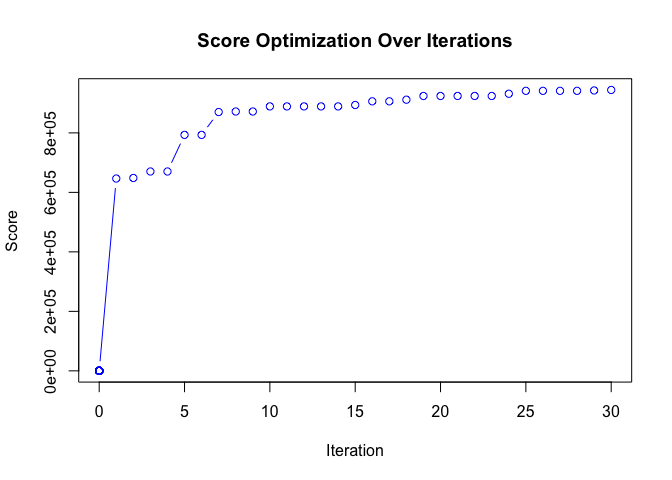
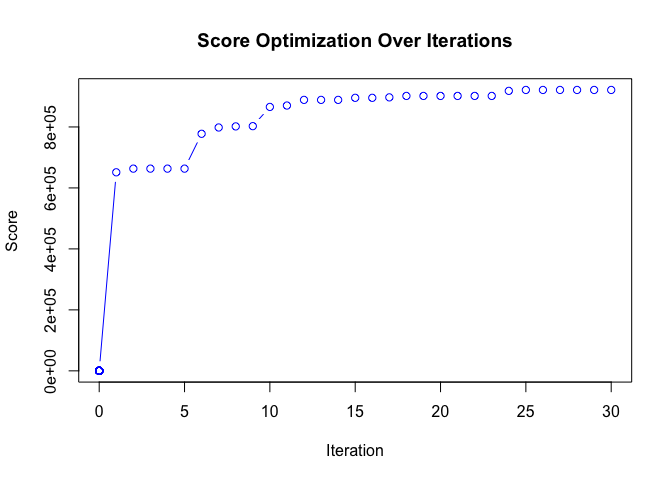
fix: README (typos, formats, citations)

diff --git a/README.md b/README.md
@@ -10,7 +10,6 @@ design (DAD).
 
 <!-- badges: start -->
 
-![GitHub](https://img.shields.io/github/license/yunyicheng/TRexDAD)
 ![GitHub language
 count](https://img.shields.io/github/languages/count/yunyicheng/TRexDAD)
 ![GitHub last commit
@@ -25,30 +24,35 @@ issues](https://img.shields.io/github/issues/yunyicheng/TRexDAD)
 
 ## Description
 
-Designing oligonucleotides is a significant part of Tile Region Exchange
-mutagenesis (T-Rex). It is a DNA assembly technique based on cassette
-mutagenesis, which utilizes a short, double-stranded oligonucleotide
-sequence (gene cassette) to replace a fragment of target DNA. It uses
-complementary restriction enzyme digest ends on the target DNA and gene
-cassette to achieve specificity. Here is a general overview of Tile
-Region Exchange and cassette mutagenesis. ![TRex Process
-Overview](inst/extdata/TRex_overview.png) However, derive the assembly
+Deep Mutational Scanning (DMS) is a technique that combines mutagenesis,
+high-throughput sequencing, and functional assays to measure the effects
+of a large number of genetic variants on a protein’s function or
+phenotype. In order to assess variants, generating a library of mutants
+is necessary. Tile Region Exchange (T-Rex) Mutagenesis is a
+high-throughput method to generate all possible single nucleotide
+variants (SNVs) or missense mutations in a gene. Here is an overview of
+T-Rex Mutagenesis. ![TRex Process
+Overview](inst/extdata/TRex_overview.png) However, deriving the assembly
 design by hand is often error-prone and time-consuming since the
 fidelity of resulting oligonucleotides does not merely depend on mere
 rules. Therefore, a data-driven solution is required for designing
-oligonucleotides with high correct assembly rate \[\]. Although there
-are web tools currently available for this procedure, few of them
-utilized Data-optimized Assembly Design.`TRexDAD` is a streamline tool
-that facilitates oligonucleotide design for Tile Region Exchange
-Mutagenesis by harnessing Data-optimized Assembly Design (DAD)
-techniques, along with visualization of optimization process. The
-package is targeted for researchers who perform Tile Region Exchange
-Mutagenesis for some genes of interest and need an efficient and
-reliable streamline to produce mutagenizing oligonucleotides. The scope
-of the R package is to improve the work flow in Tile Region Exchange
-Mutagenesis, facilitating open-source researches for interested
-bioinformatitians and computational biologists. The `TRexDAD` package
-was developed using `R version 4.3.1 (2023-06-16)`,
+oligonucleotides with high correct assembly rate [Pryor et
+al. (2020)](https://doi.org/10.1371/journal.pone.0238592). Although
+there are web tools currently available for similar mutagenesis
+procedures, few of them utilize Data-optimized Assembly Design.`TRexDAD`
+is a streamlined tool that facilitates oligonucleotide design for T-Rex
+by harnessing DAD techniques, along with visualization of the
+optimization process. The package is for researchers who perform Tile
+Region Exchange Mutagenesis for some genes of interest and need an
+efficient and reliable streamline to produce mutagenizing
+oligonucleotides. The tool includes functions performing data
+processing, overhang fidelity score calculations, and optimization of
+gene tile locations, along with a visualization of the change in
+fidelity score of resulting overhangs from oligonucleotide designs. The
+scope of the R package is to improve the work flow in T-Rex Mutagenesis
+regarding efficiency and accuracy, facilitating open-source researches
+for interested bioinformatitians and computational biologists. The
+`TRexDAD` package was developed using `R version 4.3.1 (2023-06-16)`,
 `Platform: aarch64-apple-darwin20 (64-bit)` and
 `Running under: macOS Sonoma 14.1.1`.
 
@@ -59,14 +63,8 @@ To install the latest version of the package:
 ``` r
 options(repos = c(CRAN = "https://cloud.r-project.org"))
 install.packages("devtools")
-#> 
-#> The downloaded binary packages are in
-#>  /var/folders/j2/0nyw78hx65ld4h4zpmyv3r_40000gn/T//RtmpeJRugb/downloaded_packages
 library("devtools")
-#> Loading required package: usethis
 devtools::install_github("yunyicheng/TRexDAD", build_vignettes = TRUE)
-#> Skipping install of 'TRexDAD' from a github remote, the SHA1 (cd1f89f1) has not changed since last install.
-#>   Use `force = TRUE` to force installation
 library("TRexDAD")
 ```
 
@@ -79,15 +77,7 @@ library("TRexDAD")
 
 ``` r
 ls("package:TRexDAD")
-#>  [1] "calculate_global_score"  "calculate_local_score"  
-#>  [3] "calculate_optimal_tiles" "execute_and_plot"       
-#>  [5] "get_all_overhangs"       "get_overhangs"          
-#>  [7] "oligo_cost"              "optimize_position"      
-#>  [9] "pick_position"           "split_into_codons"
-data(package = "TRexDAD") 
-#> no data sets found
 browseVignettes("TRexDAD")
-#> No vignettes found by browseVignettes("TRexDAD")
 ```
 
 `TRexDAD` contains 10 functions. Since they are all parts of an
@@ -154,10 +144,11 @@ The author of the package is Yunyi Cheng.
 
 The author wrote the *execute_and_plot* function, which performs an
 optimization process to determine the optimal tile positions in a gene
-sequence and plots the progression of the score over iterations.
+sequence and plots the change in the score over iterations.
 
 Other user-accessible functions are also developed by the author. Most
-of them serve as helper functions for the *execute_and_plot* function.
+of them serve as helper functions for the *execute_and_plot* function,
+but they can also be used indepently for specific tasks.
 
 `Biostrings` R package is used for calculating reverse complement of
 overhangs in the *get_overhangs* function.
@@ -165,7 +156,8 @@ overhangs in the *get_overhangs* function.
 `readxl` R package is used for reading excel file
 `overhang_fidelity.xlsx` containing tested overhangs’s reactivity
 against each other. `overhang_fidelity.xlsx` is from the study by New
-England Biolabs.
+England Biolabs [Pryor et
+al. (2020)](https://doi.org/10.1371/journal.pone.0238592).
 
 `forstringr` R package is used for manipulating splitted target gene (a
 list of codons) in the *get_overhangs* function.
@@ -217,109 +209,15 @@ those who provided feedback to improve this package.
 
 ## Workflow Usage
 
-The main objective of the package is to find optimal assembly design in
-mutagenizing Rad27. The RAD27 gene of Saccharomyces cerevisiae encodes a
-5′-3′ flap exo/endonuclease, which is significant for DNA replication.
+The main objective of the package is to find the optimal assembly design
+for mutagenizing a gene of interest. For illustration purposes, it is
+set to Rad27 by default; but users are encouraged to use this tool for
+any genes of interest.
 
-To initiate workflow (with visualization of scores), run:
+To initiate workflow with the default gene of interest, run:
 
 ``` r
 execute_and_plot()
-#> For 385 codons, the optimal number of tiles is 17 with an average length of 23 nucleotides per tile and an optimal cost of 1.685905 per codon.
-#>  [1]   3  26  49  72  95 118 141 164 187 210 233 256 279 302 325 348 371
-#>  [1]   3  26  49  72  95 118 141 164 187 210 233 256 279 302 325 348 371 383
-#> [1] "Initial positions = 3, 26, 49, 72, 95, 118, 141, 164, 187, 210, 233, 256, 279, 302, 325, 348, 371, 383"
-#> [1] "Initial score = 635750"
-#> [1] "Optimized target = 278"
-#> [1] "Modified pos = 3, 26, 49, 72, 95, 118, 141, 164, 187, 210, 233, 256, 278, 302, 325, 348, 371, 383"
-#> [1] "#iteration = 1 , current score = 646550"
-#> [1] "Optimized target = 324"
-#> [1] "Modified pos = 3, 26, 49, 72, 95, 118, 141, 164, 187, 210, 233, 256, 278, 302, 324, 348, 371, 383"
-#> [1] "#iteration = 2 , current score = 648350"
-#> [1] "Optimized target = 168"
-#> [1] "Modified pos = 3, 26, 49, 72, 95, 118, 141, 168, 187, 210, 233, 256, 278, 302, 324, 348, 371, 383"
-#> [1] "#iteration = 3 , current score = 670200"
-#> [1] "Optimized target = 49"
-#> [1] "Modified pos = 3, 26, 49, 72, 95, 118, 141, 168, 187, 210, 233, 256, 278, 302, 324, 348, 371, 383"
-#> [1] "#iteration = 4 , current score = 670200"
-#> [1] "Optimized target = 143"
-#> [1] "Modified pos = 3, 26, 49, 72, 95, 118, 143, 168, 187, 210, 233, 256, 278, 302, 324, 348, 371, 383"
-#> [1] "#iteration = 5 , current score = 793300"
-#> [1] "Optimized target = 49"
-#> [1] "Modified pos = 3, 26, 49, 72, 95, 118, 143, 168, 187, 210, 233, 256, 278, 302, 324, 348, 371, 383"
-#> [1] "#iteration = 6 , current score = 793300"
-#> [1] "Optimized target = 25"
-#> [1] "Modified pos = 3, 25, 49, 72, 95, 118, 143, 168, 187, 210, 233, 256, 278, 302, 324, 348, 371, 383"
-#> [1] "#iteration = 7 , current score = 870100"
-#> [1] "Optimized target = 123"
-#> [1] "Modified pos = 3, 25, 49, 72, 95, 123, 143, 168, 187, 210, 233, 256, 278, 302, 324, 348, 371, 383"
-#> [1] "#iteration = 8 , current score = 871850"
-#> [1] "Optimized target = 348"
-#> [1] "Modified pos = 3, 25, 49, 72, 95, 123, 143, 168, 187, 210, 233, 256, 278, 302, 324, 348, 371, 383"
-#> [1] "#iteration = 9 , current score = 871850"
-#> [1] "Optimized target = 368"
-#> [1] "Modified pos = 3, 25, 49, 72, 95, 123, 143, 168, 187, 210, 233, 256, 278, 302, 324, 348, 368, 383"
-#> [1] "#iteration = 10 , current score = 889000"
-#> [1] "Optimized target = 368"
-#> [1] "Modified pos = 3, 25, 49, 72, 95, 123, 143, 168, 187, 210, 233, 256, 278, 302, 324, 348, 368, 383"
-#> [1] "#iteration = 11 , current score = 889000"
-#> [1] "Optimized target = 25"
-#> [1] "Modified pos = 3, 25, 49, 72, 95, 123, 143, 168, 187, 210, 233, 256, 278, 302, 324, 348, 368, 383"
-#> [1] "#iteration = 12 , current score = 889000"
-#> [1] "Optimized target = 368"
-#> [1] "Modified pos = 3, 25, 49, 72, 95, 123, 143, 168, 187, 210, 233, 256, 278, 302, 324, 348, 368, 383"
-#> [1] "#iteration = 13 , current score = 889000"
-#> [1] "Optimized target = 210"
-#> [1] "Modified pos = 3, 25, 49, 72, 95, 123, 143, 168, 187, 210, 233, 256, 278, 302, 324, 348, 368, 383"
-#> [1] "#iteration = 14 , current score = 889000"
-#> [1] "Optimized target = 96"
-#> [1] "Modified pos = 3, 25, 49, 72, 96, 123, 143, 168, 187, 210, 233, 256, 278, 302, 324, 348, 368, 383"
-#> [1] "#iteration = 15 , current score = 893750"
-#> [1] "Optimized target = 277"
-#> [1] "Modified pos = 3, 25, 49, 72, 96, 123, 143, 168, 187, 210, 233, 256, 277, 302, 324, 348, 368, 383"
-#> [1] "#iteration = 16 , current score = 906100"
-#> [1] "Optimized target = 96"
-#> [1] "Modified pos = 3, 25, 49, 72, 96, 123, 143, 168, 187, 210, 233, 256, 277, 302, 324, 348, 368, 383"
-#> [1] "#iteration = 17 , current score = 906100"
-#> [1] "Optimized target = 346"
-#> [1] "Modified pos = 3, 25, 49, 72, 96, 123, 143, 168, 187, 210, 233, 256, 277, 302, 324, 346, 368, 383"
-#> [1] "#iteration = 18 , current score = 911600"
-#> [1] "Optimized target = 185"
-#> [1] "Modified pos = 3, 25, 49, 72, 96, 123, 143, 168, 185, 210, 233, 256, 277, 302, 324, 346, 368, 383"
-#> [1] "#iteration = 19 , current score = 924100"
-#> [1] "Optimized target = 25"
-#> [1] "Modified pos = 3, 25, 49, 72, 96, 123, 143, 168, 185, 210, 233, 256, 277, 302, 324, 346, 368, 383"
-#> [1] "#iteration = 20 , current score = 924100"
-#> [1] "Optimized target = 25"
-#> [1] "Modified pos = 3, 25, 49, 72, 96, 123, 143, 168, 185, 210, 233, 256, 277, 302, 324, 346, 368, 383"
-#> [1] "#iteration = 21 , current score = 924100"
-#> [1] "Optimized target = 302"
-#> [1] "Modified pos = 3, 25, 49, 72, 96, 123, 143, 168, 185, 210, 233, 256, 277, 302, 324, 346, 368, 383"
-#> [1] "#iteration = 22 , current score = 924100"
-#> [1] "Optimized target = 324"
-#> [1] "Modified pos = 3, 25, 49, 72, 96, 123, 143, 168, 185, 210, 233, 256, 277, 302, 324, 346, 368, 383"
-#> [1] "#iteration = 23 , current score = 924100"
-#> [1] "Optimized target = 148"
-#> [1] "Modified pos = 3, 25, 49, 72, 96, 123, 148, 168, 185, 210, 233, 256, 277, 302, 324, 346, 368, 383"
-#> [1] "#iteration = 24 , current score = 931550"
-#> [1] "Optimized target = 235"
-#> [1] "Modified pos = 3, 25, 49, 72, 96, 123, 148, 168, 185, 210, 235, 256, 277, 302, 324, 346, 368, 383"
-#> [1] "#iteration = 25 , current score = 941300"
-#> [1] "Optimized target = 235"
-#> [1] "Modified pos = 3, 25, 49, 72, 96, 123, 148, 168, 185, 210, 235, 256, 277, 302, 324, 346, 368, 383"
-#> [1] "#iteration = 26 , current score = 941300"
-#> [1] "Optimized target = 49"
-#> [1] "Modified pos = 3, 25, 49, 72, 96, 123, 148, 168, 185, 210, 235, 256, 277, 302, 324, 346, 368, 383"
-#> [1] "#iteration = 27 , current score = 941300"
-#> [1] "Optimized target = 235"
-#> [1] "Modified pos = 3, 25, 49, 72, 96, 123, 148, 168, 185, 210, 235, 256, 277, 302, 324, 346, 368, 383"
-#> [1] "#iteration = 28 , current score = 941300"
-#> [1] "Optimized target = 364"
-#> [1] "Modified pos = 3, 25, 49, 72, 96, 123, 148, 168, 185, 210, 235, 256, 277, 302, 324, 346, 364, 383"
-#> [1] "#iteration = 29 , current score = 942600"
-#> [1] "Optimized target = 344"
-#> [1] "Modified pos = 3, 25, 49, 72, 96, 123, 148, 168, 185, 210, 235, 256, 277, 302, 324, 344, 364, 383"
-#> [1] "#iteration = 30 , current score = 944300"
 ```
 
 <img src="man/figures/README-unnamed-chunk-4-1.png" width="100%" />
